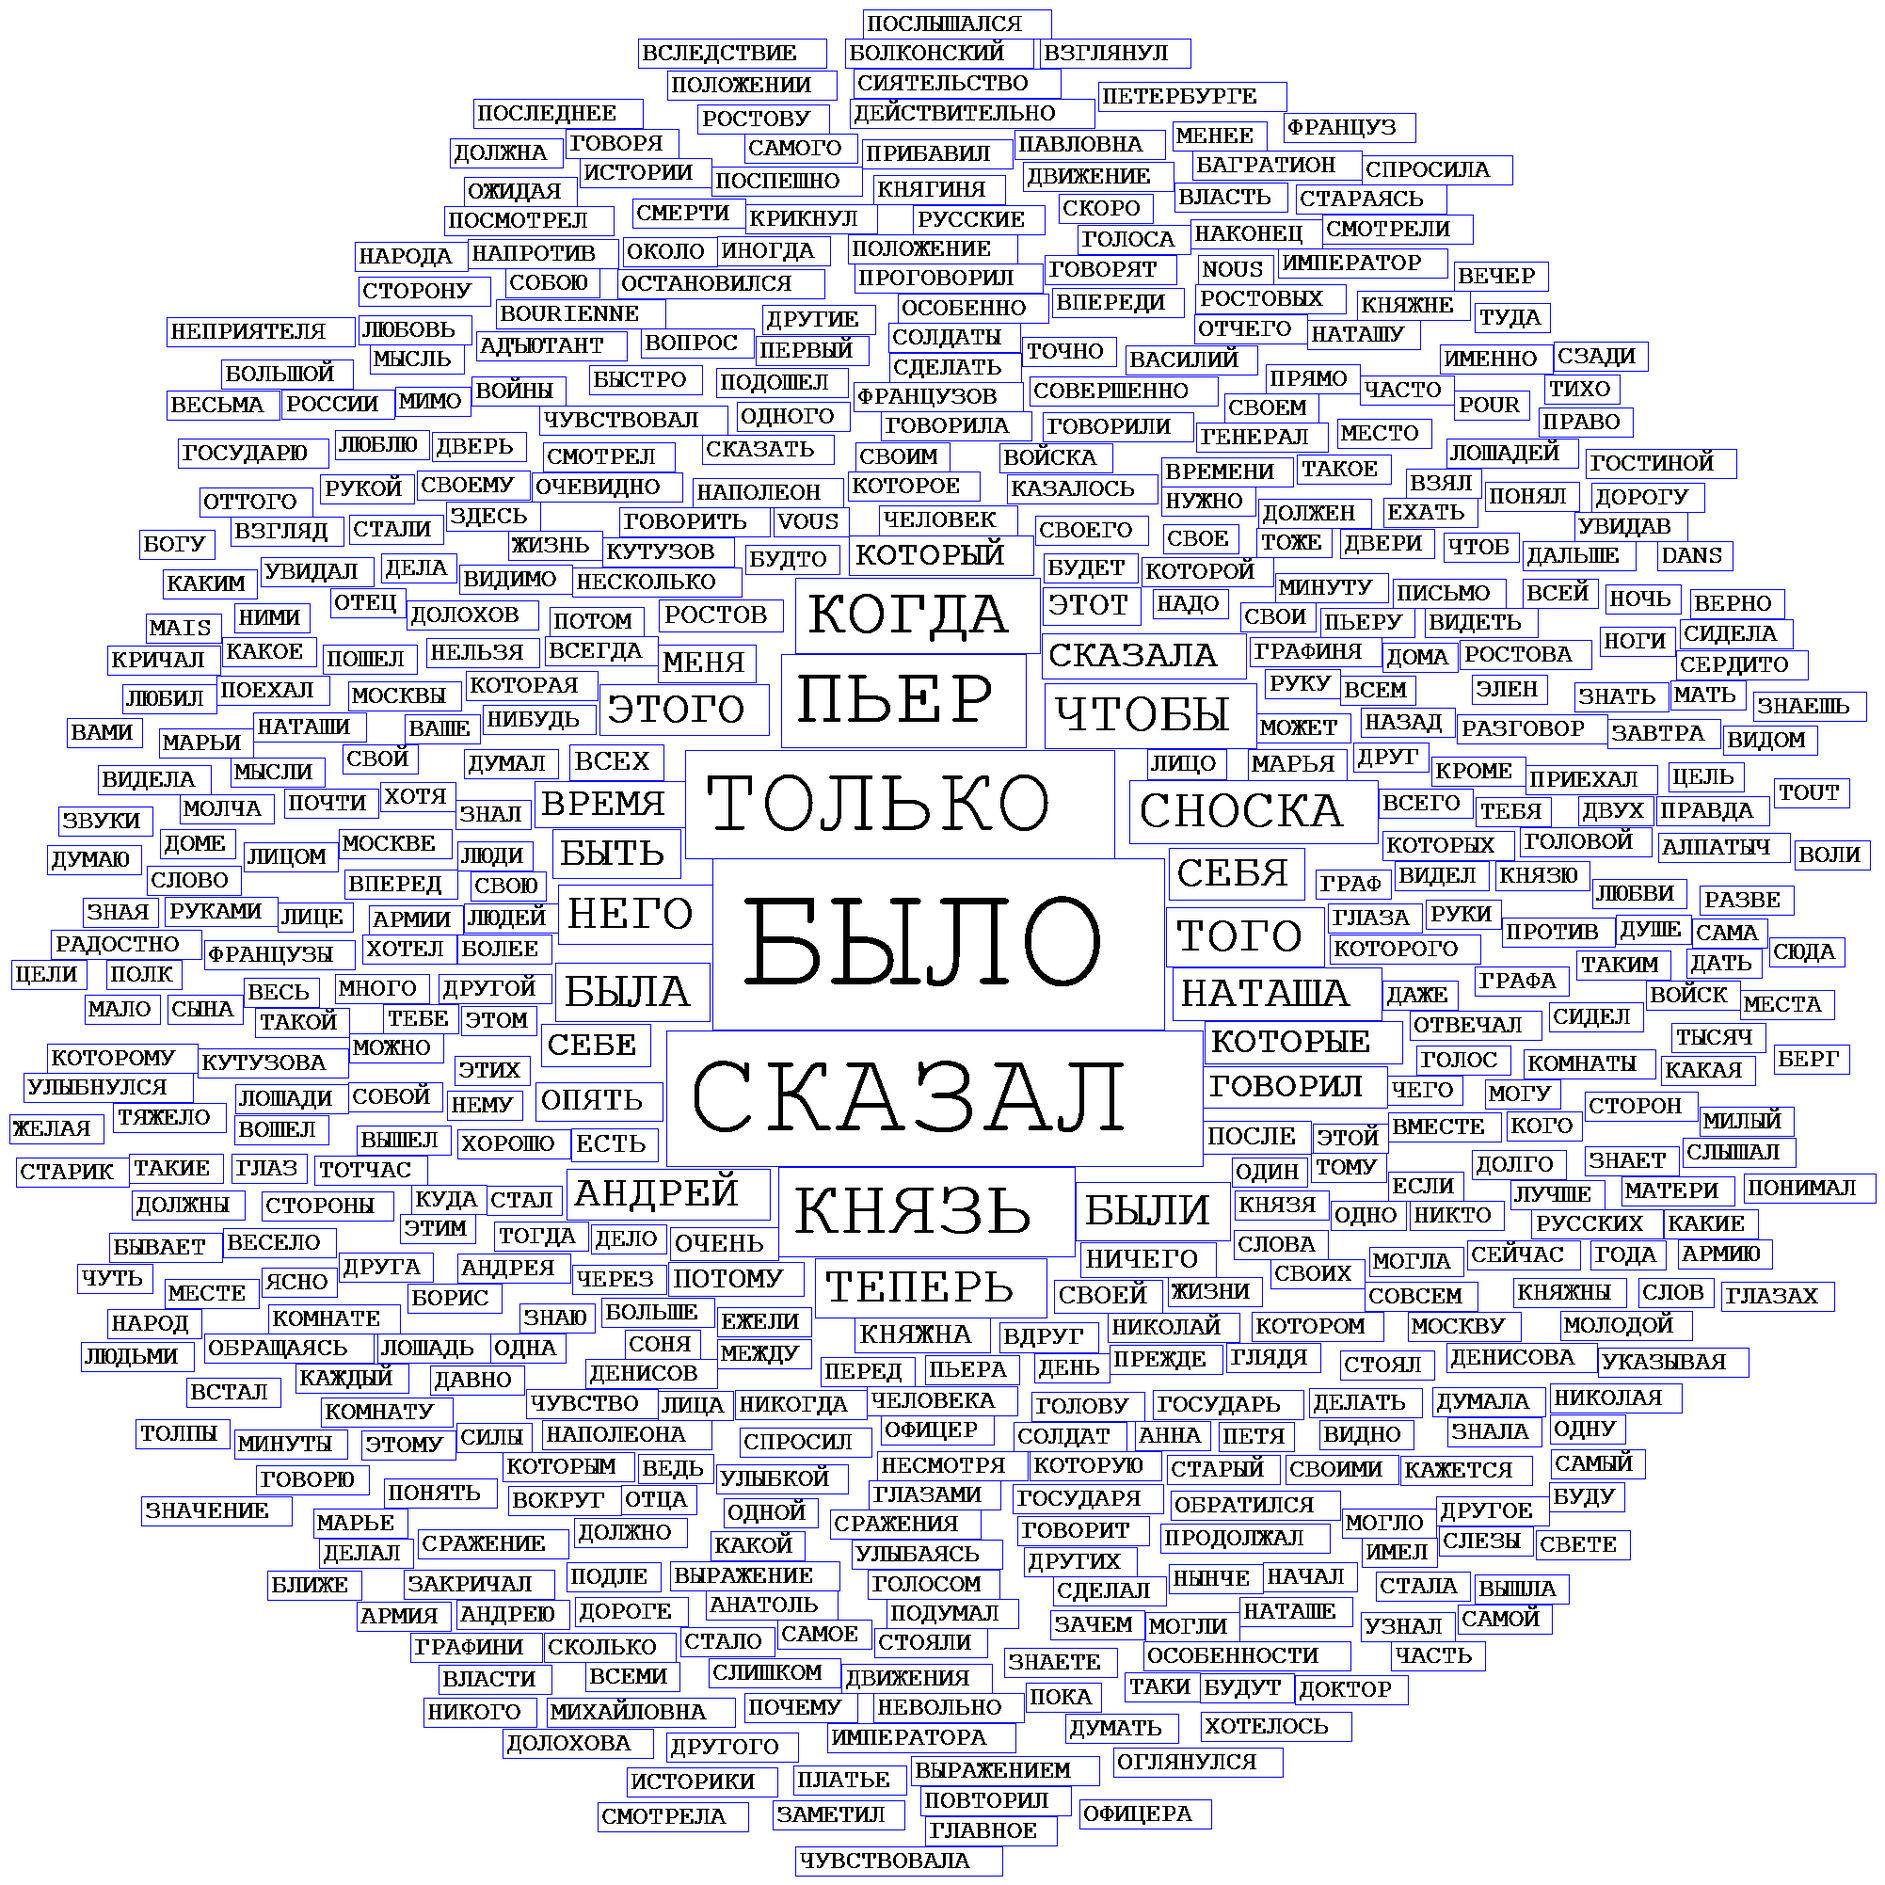
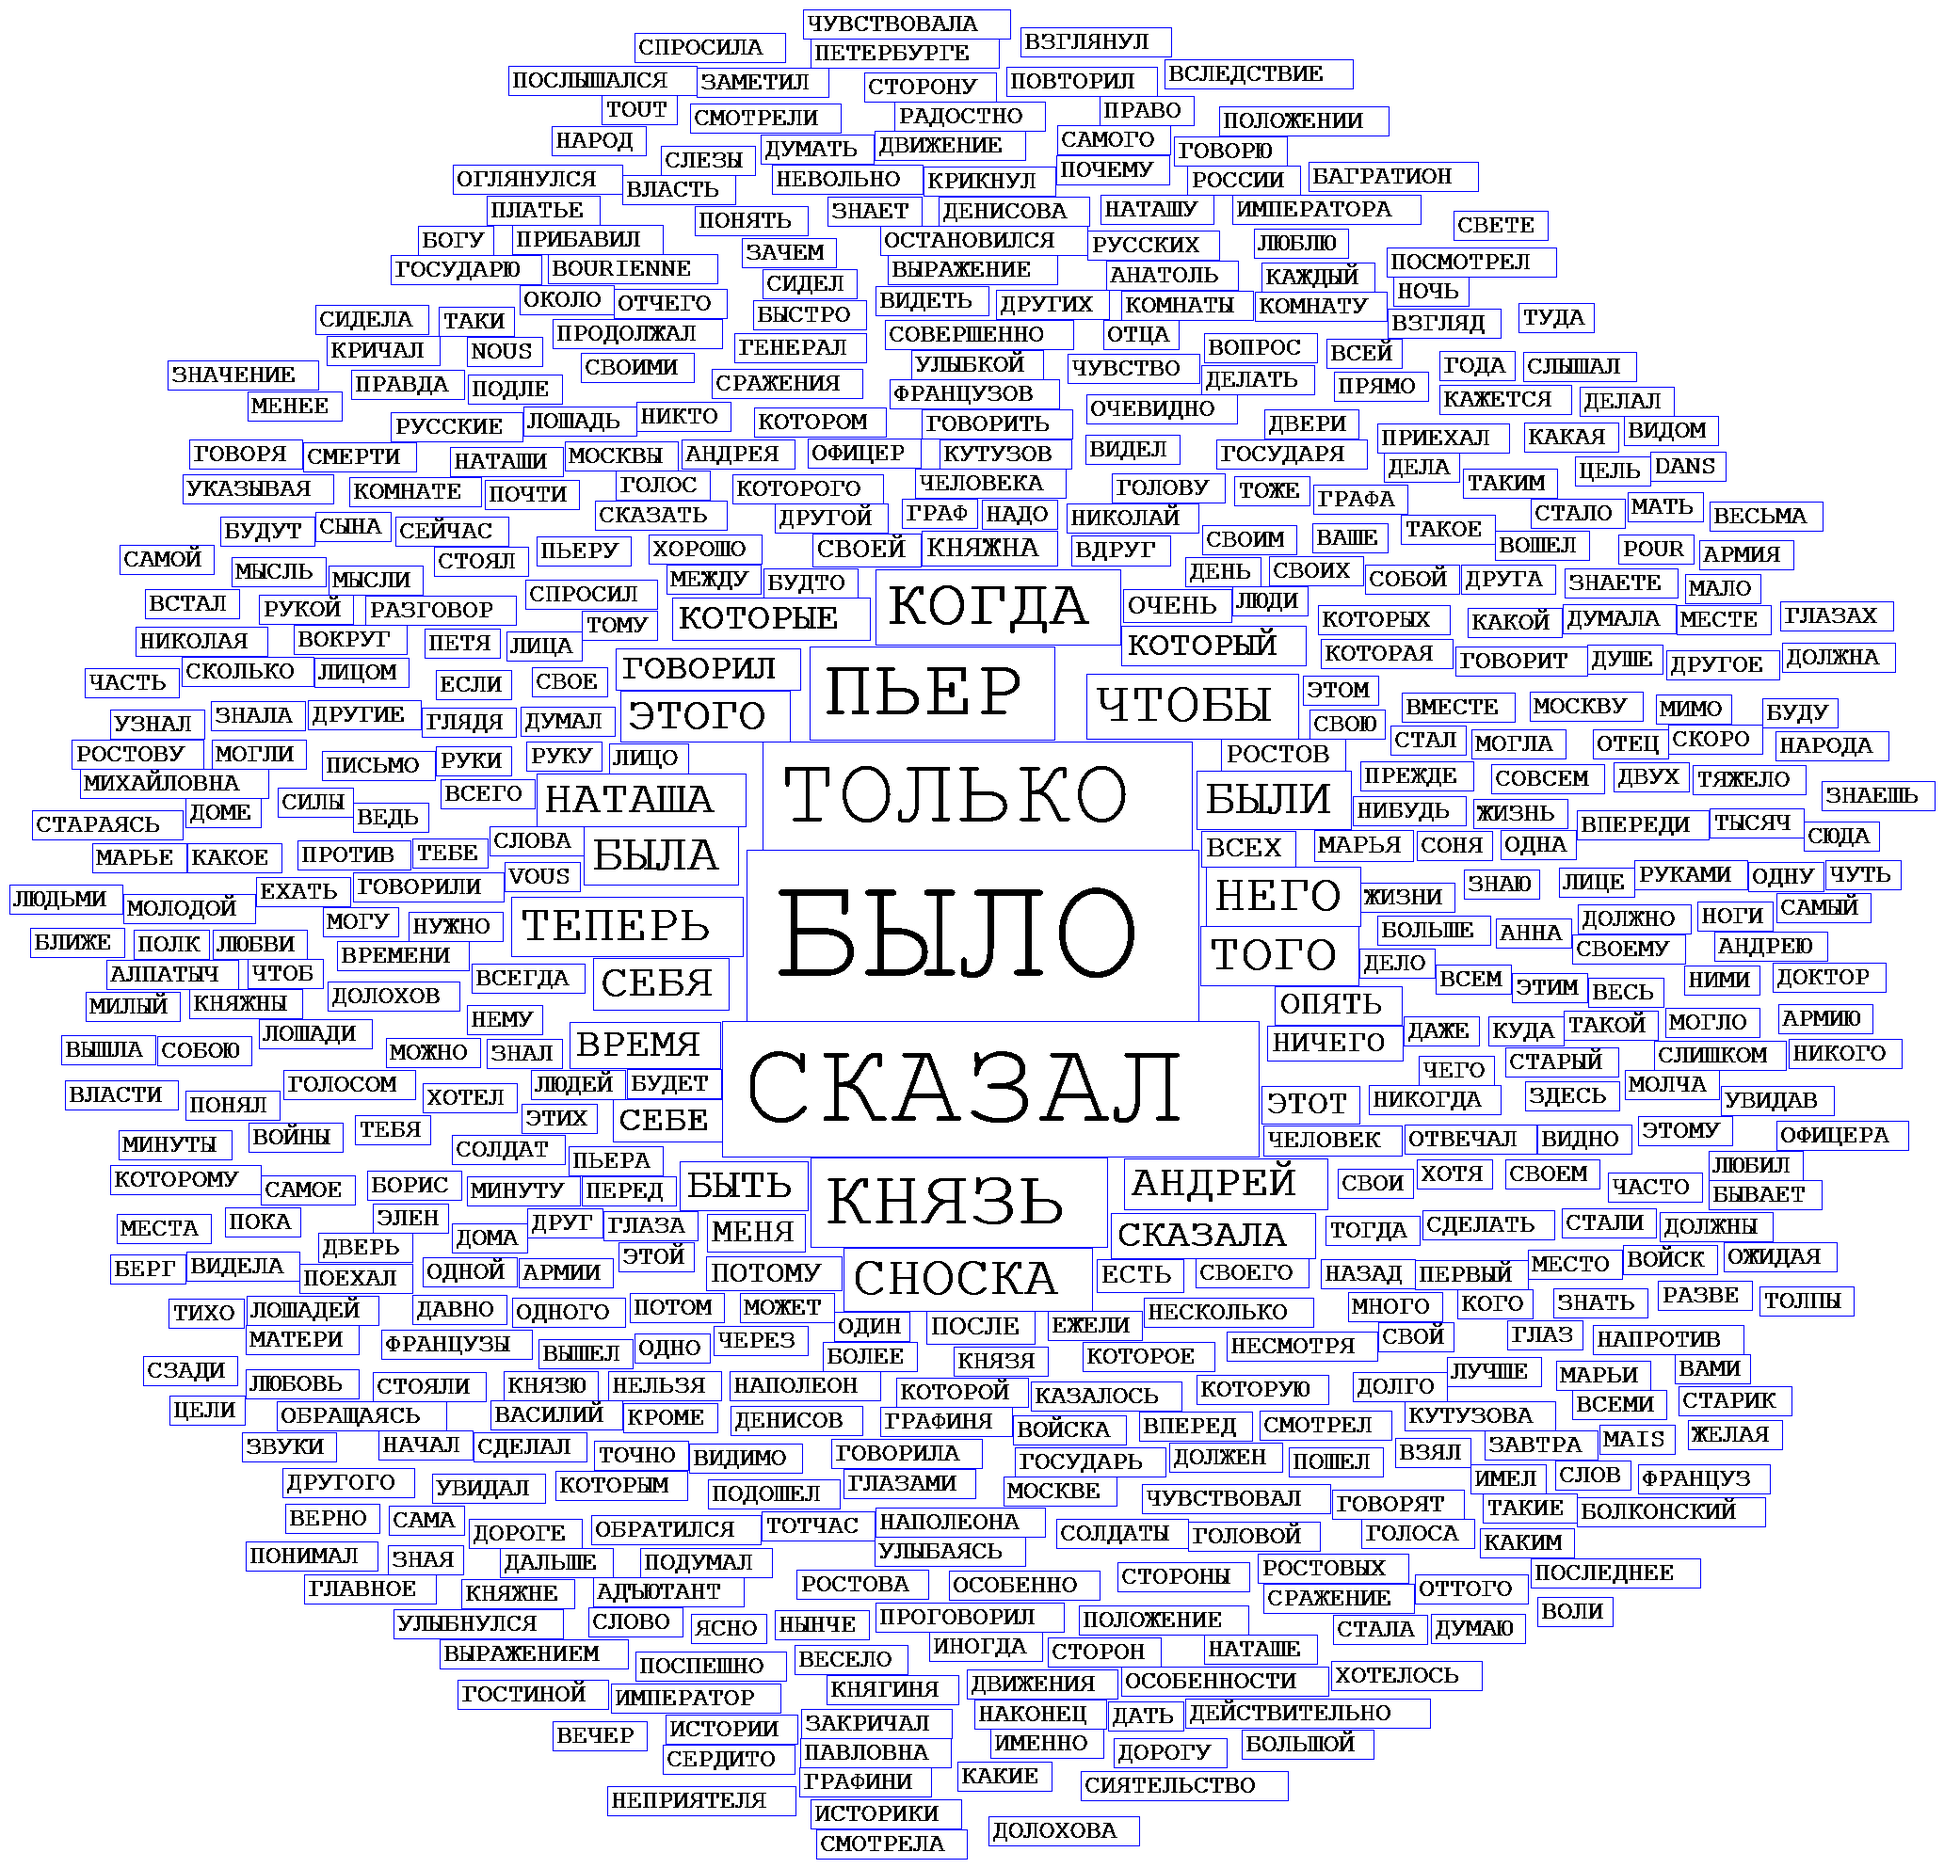
final(?) update

Changed region(s): [[0.0, 0.0, 0.9905, 0.9995]]

diff --git a/TagsCloudVisualization/TagsCloudVisualization/Visualisation.cs b/TagsCloudVisualization/TagsCloudVisualization/Visualisation.cs
@@ -23,8 +23,8 @@ namespace TagsCloudVisualization
             return 0;
         }
 
-        private const float MaxFontSize = 120.0f;
-        private const float MinFontSize = 20.0f;
+        private const float MaxFontSize = 80.0f;
+        private const float MinFontSize = 10.0f;
 
         private static void MakeWordClod(Dictionary<string, int> stats, string savePath)
         {
@@ -36,7 +36,7 @@ namespace TagsCloudVisualization
 
             var significantStats = stats.ToList();
             significantStats.Sort((p1, p2) => -1 * p1.Value.CompareTo(p2.Value));
-            significantStats = significantStats.Take(500).ToList();
+            significantStats = significantStats.Take(50).ToList();
             var maxWeight = significantStats[0].Value;
             var minWeight = significantStats[significantStats.Count - 1].Value;
             

diff --git a/TagsCloudVisualization/TagsCloudVisualization/CircularCloudLayouter.cs b/TagsCloudVisualization/TagsCloudVisualization/CircularCloudLayouter.cs
@@ -78,12 +78,12 @@ namespace TagsCloudVisualization
             square = square < 0 ? int.MaxValue : square;
             var stretchCoefficient = (1.0 / square);
             var i = 0;
+            var angle = 0.0;
             while (true)
             {
                 if (i == int.MaxValue)
                     return null;
-                var angle = i * DeltaAngle
-                            *(0.75 / (i * stretchCoefficient + 1) + 0.5);
+                angle += DeltaAngle *(0.75 / (i * stretchCoefficient + 1) + 0.5);
                 var shiftFromCenter = TransformCoordinatesFromPolarToCartesian(angle, angle);
                 var upperLeftCorner = new Point(center.X + shiftFromCenter.X - rectangleSize.Width / 2,
                     center.Y + shiftFromCenter.Y - rectangleSize.Height / 2);

diff --git a/TagsCloudVisualization/TagsCloudVisualization/README.md b/TagsCloudVisualization/TagsCloudVisualization/README.md
@@ -17,10 +17,10 @@
 Данные функции балансируют друг друга таким образом: в начале размер шага разный для всех прямоугольников, но при стремлении i в бесконечность, он стремится к PI/30
 
 
-**Война и мир, 100 слов длиннее двух букв, размер шрифта от 20 до 100**
+**Война и мир, 50 слов длиннее трех букв, размер шрифта от 10 до 80**
 ![1](https://raw.githubusercontent.com/Yewert/tdd/development/TagsCloudVisualization/TagsCloudVisualization/coolWords1.png)
 
-**Война и мир, 100 слов длиннее трех букв, размер шрифта от 30 до 120**
+**Война и мир, 100 слов длиннее трех букв, размер шрифта от 20 до 120**
 ![2](https://raw.githubusercontent.com/Yewert/tdd/development/TagsCloudVisualization/TagsCloudVisualization/coolWords2.png)
 
 **Война и мир, 500 слов длиннее трех букв, размер шрифта 0т 20 до 120**
